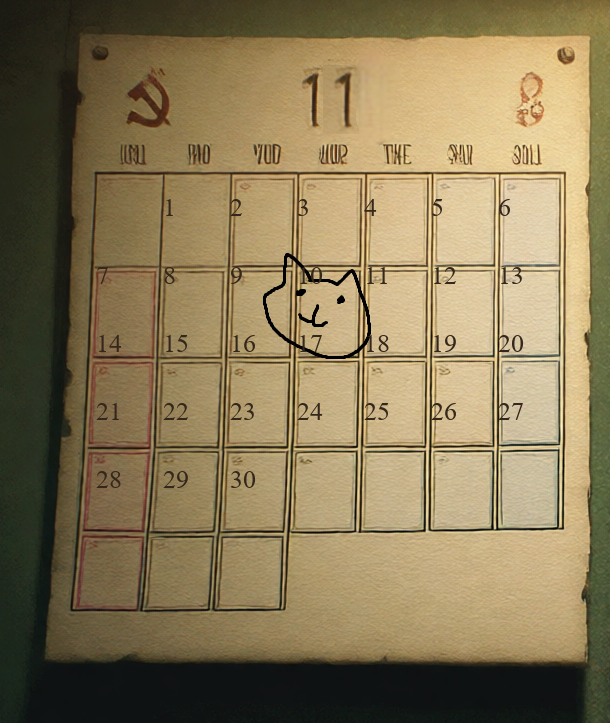
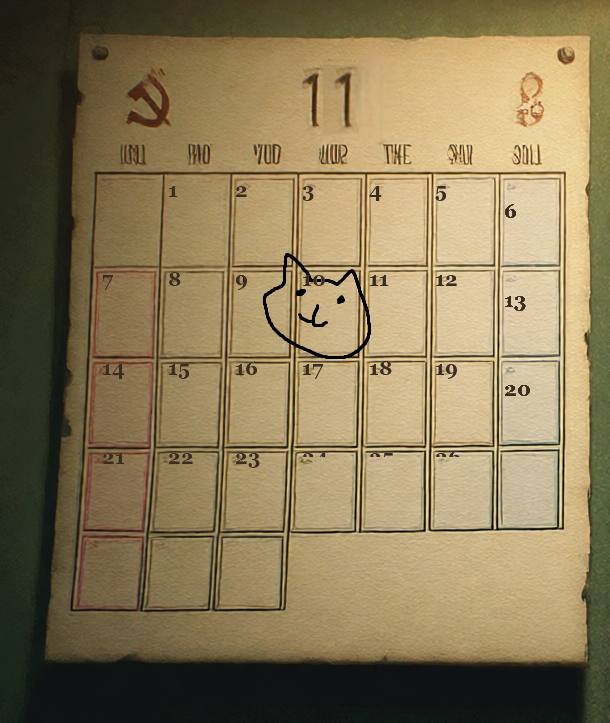
Calendar numbers copied pixel-exact from original, shifted one cell

diff --git a/index.html b/index.html
@@ -10,10 +10,10 @@
   <link rel="apple-touch-icon" href="assets/img/favicon.png">
   <link rel="preconnect" href="https://fonts.googleapis.com">
   <link href="https://fonts.googleapis.com/css2?family=DotGothic16&family=Handjet:wght@400..700&family=Noto+Sans+JP:wght@400;500&family=Press+Start+2P&display=swap" rel="stylesheet">
-  <link rel="stylesheet" href="css/base.css?v=29">
-  <link rel="stylesheet" href="css/scenes.css?v=29">
-  <link rel="stylesheet" href="css/ui.css?v=29">
-  <link rel="stylesheet" href="css/effects.css?v=29">
+  <link rel="stylesheet" href="css/base.css?v=30">
+  <link rel="stylesheet" href="css/scenes.css?v=30">
+  <link rel="stylesheet" href="css/ui.css?v=30">
+  <link rel="stylesheet" href="css/effects.css?v=30">
 </head>
 <body>
   <noscript><style>#loader{display:none}</style></noscript>
@@ -273,19 +273,19 @@ DUO QUEUE: ОНЛАЙН.</pre>
       }
     }, 45000);
   </script>
-  <script src="js/zoom.js?v=29"></script>
-  <script src="js/state.js?v=29"></script>
-  <script src="js/scenes.js?v=29"></script>
-  <script src="js/inventory.js?v=29"></script>
-  <script src="js/notes.js?v=29"></script>
-  <script src="js/preload.js?v=29"></script>
-  <script src="js/scene0-boot.js?v=29"></script>
-  <script src="js/scene1-commissariat.js?v=29"></script>
-  <script src="js/scene2-station.js?v=29"></script>
-  <script src="js/scene3-dream.js?v=29"></script>
-  <script src="js/scene4-map.js?v=29"></script>
-  <script src="js/endings.js?v=29"></script>
-  <script src="js/final.js?v=29"></script>
-  <script src="js/audio.js?v=29"></script>
+  <script src="js/zoom.js?v=30"></script>
+  <script src="js/state.js?v=30"></script>
+  <script src="js/scenes.js?v=30"></script>
+  <script src="js/inventory.js?v=30"></script>
+  <script src="js/notes.js?v=30"></script>
+  <script src="js/preload.js?v=30"></script>
+  <script src="js/scene0-boot.js?v=30"></script>
+  <script src="js/scene1-commissariat.js?v=30"></script>
+  <script src="js/scene2-station.js?v=30"></script>
+  <script src="js/scene3-dream.js?v=30"></script>
+  <script src="js/scene4-map.js?v=30"></script>
+  <script src="js/endings.js?v=30"></script>
+  <script src="js/final.js?v=30"></script>
+  <script src="js/audio.js?v=30"></script>
 </body>
 </html>

diff --git a/js/scene1-commissariat.js b/js/scene1-commissariat.js
@@ -306,7 +306,7 @@ Discord. Я написала первой.</pre>`;
           state.flags.calendarStep = 1;
           saveState();
           showViewer(
-            'assets/img/calendar-november.png?v=8',
+            'assets/img/calendar-november.png?v=9',
             '10 ноября обведено котиком. За календарём, между страницами, что-то есть...',
             'Календарь, ноябрь',
             '10 ноября обведено котиком. Между страницами что-то есть...'

diff --git a/js/preload.js b/js/preload.js
@@ -68,7 +68,7 @@
           else complete();
         };
         img.onerror = complete;
-        img.src = 'assets/img/' + name + (name === 'radio.png' ? '?v=2' : name === 'calendar-november.png' ? '?v=8' : '');
+        img.src = 'assets/img/' + name + (name === 'radio.png' ? '?v=2' : name === 'calendar-november.png' ? '?v=9' : '');
       });
     });
   }
